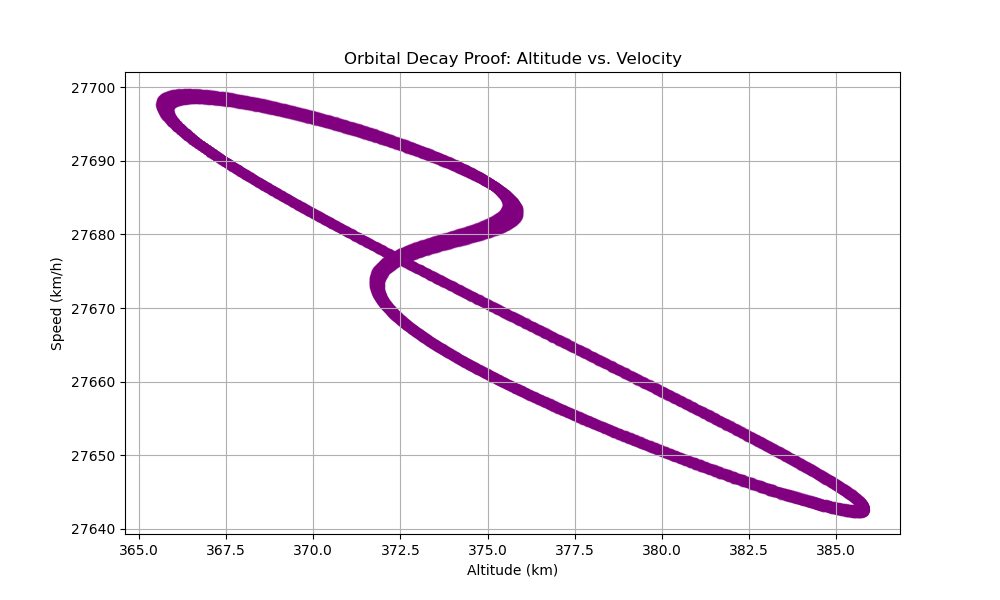
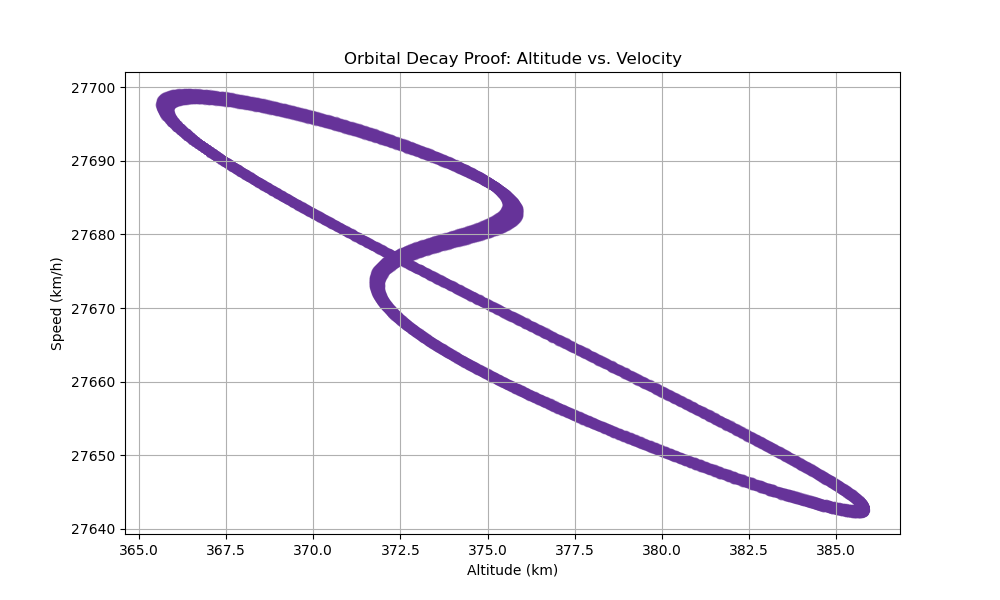
More tweaks

diff --git a/scripts/telemetry_utils.py b/scripts/telemetry_utils.py
@@ -1,58 +1,65 @@
 import pandas as pd
 import matplotlib.pyplot as plt
-import os
 
-def count_regional_flyovers(csv_filepath, save_visuals=True):
-    # Load the dataset
+def generate_legacy_maps(csv_filepath):
+    # I want to exactly recreate the legacy visualizations from my original CMSE 201 project
     df = pd.read_csv(csv_filepath)
     
-    # Bounding boxes
-    EL_MIN_LAT, EL_MAX_LAT, EL_MIN_LON, EL_MAX_LON = 42.70, 42.76, -84.52, -84.42
-    MI_MIN_LAT, MI_MAX_LAT, MI_MIN_LON, MI_MAX_LON = 41.69, 48.32, -90.41, -82.41
-    CHI_MIN_LAT, CHI_MAX_LAT, CHI_MIN_LON, CHI_MAX_LON = 41.64, 42.02, -87.94, -87.52
-    IL_MIN_LAT, IL_MAX_LAT, IL_MIN_LON, IL_MAX_LON = 36.97, 42.50, -91.51, -87.49
+    # 1. The Orbital Track (Scatter)
+    plt.figure(figsize=(12, 6))
+    plt.scatter(df['longitude'], df['latitude'], alpha=0.5, color='blue', s=2)
+    plt.title('Legacy Visualization: Earth Rotation Orbital Track')
+    plt.xlabel('Longitude')
+    plt.ylabel('Latitude')
+    plt.grid(True)
+    plt.savefig('./assets/legacy_orbital_track.png')
+    plt.close()
     
-    counts = {'East Lansing': 0, 'Michigan': 0, 'Chicago': 0, 'Illinois': 0}
+    # 2. The Density Heatmap (Logarithmic Hexbin)
+    plt.figure(figsize=(12, 6))
+    plt.hexbin(df['longitude'], df['latitude'], gridsize=50, cmap='inferno', bins='log')
+    plt.title('Legacy Visualization: Global Density Heatmap')
+    plt.xlabel('Longitude')
+    plt.ylabel('Latitude')
+    plt.colorbar(label='log10(N)')
+    plt.savefig('./assets/legacy_density_heatmap.png')
+    plt.close()
+
+def analyze_global_bands(csv_filepath, save_visuals=True):
+    df = pd.read_csv(csv_filepath)
     
-    # I want to explicitly check coordinates for regional tracking
+    # Michigan's latitude is roughly between 41.5 N and 48.3 N. 
+    # I am tracking this entire horizontal slice around the globe.
+    MI_LAT_MIN = 41.5
+    MI_LAT_MAX = 48.3
+    
+    # Bangalore, India is roughly at longitude 77.6 E.
+    # I am tracking the vertical longitudinal band from 77.0 to 78.0 from pole to pole.
+    BLR_LON_MIN = 77.0
+    BLR_LON_MAX = 78.0
+    
+    mi_band_count = 0
+    blr_band_count = 0
+    
+    # Expanding this out so I can explicitly check each coordinate
     for index, row in df.iterrows():
         lat = row['latitude']
         lon = row['longitude']
         
-        if (lat >= EL_MIN_LAT and lat <= EL_MAX_LAT):
-            if (lon >= EL_MIN_LON and lon <= EL_MAX_LON):
-                counts['East Lansing'] = counts['East Lansing'] + 1
+        # Check Michigan's horizontal band
+        if (lat >= MI_LAT_MIN and lat <= MI_LAT_MAX):
+            mi_band_count = mi_band_count + 1
+            
+        # Check Bangalore's vertical band
+        if (lon >= BLR_LON_MIN and lon <= BLR_LON_MAX):
+            blr_band_count = blr_band_count + 1
                 
-        if (lat >= MI_MIN_LAT and lat <= MI_MAX_LAT):
-            if (lon >= MI_MIN_LON and lon <= MI_MAX_LON):
-                counts['Michigan'] = counts['Michigan'] + 1
-                
-        if (lat >= CHI_MIN_LAT and lat <= CHI_MAX_LAT):
-            if (lon >= CHI_MIN_LON and lon <= CHI_MAX_LON):
-                counts['Chicago'] = counts['Chicago'] + 1
-                
-        if (lat >= IL_MIN_LAT and lat <= IL_MAX_LAT):
-            if (lon >= IL_MIN_LON and lon <= IL_MAX_LON):
-                counts['Illinois'] = counts['Illinois'] + 1
-
     if (save_visuals == True):
-        # 1. Generate the Bar Chart for Regional Pings
         plt.figure(figsize=(8, 5))
-        plt.bar(counts.keys(), counts.values(), color='darkorange')
-        plt.title('ISS Telemetry Pings Over Target Midwestern Regions')
-        plt.ylabel('Number of Data Points')
-        plt.savefig('./assets/regional_pings_bar.png')
+        plt.bar(['Michigan Lat Band', 'Bangalore Lon Band'], [mi_band_count, blr_band_count], color=['forestgreen', 'darkorange'])
+        plt.title('Macro-Regional Telemetry Density')
+        plt.ylabel('Total Pings Recorded')
+        plt.savefig('./assets/macro_regional_bands.png')
         plt.close()
         
-        # 2. Recreate the Legacy CMSE 201 Heatmap to honor the original project
-        # Plotting longitude on X and latitude on Y creates a rough global map
-        plt.figure(figsize=(12, 6))
-        plt.scatter(df['longitude'], df['latitude'], alpha=0.1, color='red', s=1)
-        plt.title('Legacy Visualization: Global ISS Flight Path Heatmap')
-        plt.xlabel('Longitude')
-        plt.ylabel('Latitude')
-        plt.grid(True)
-        plt.savefig('./assets/legacy_global_heatmap.png')
-        plt.close()
-        
-    return counts
+    return {'Michigan_Band': mi_band_count, 'Bangalore_Band': blr_band_count}

diff --git a/scripts/geopolitics.py b/scripts/geopolitics.py
@@ -1,37 +1,22 @@
 import pandas as pd
 import matplotlib.pyplot as plt
 
-def analyze_sovereign_airspace(csv_filepath, save_visuals=True):
+def analyze_granular_geopolitics(csv_filepath, save_visuals=True):
+    # I want to find the top 10 specific bodies of water and landmasses the ISS surveys.
     df = pd.read_csv(csv_filepath)
     
-    ocean_count = 0
-    land_count = 0
-    
-    for index, row in df.iterrows():
-        region_name = str(row['region'])
-        if ("Ocean" in region_name or "Sea" in region_name):
-            ocean_count = ocean_count + 1
-        else:
-            land_count = land_count + 1
-            
-    total_points = len(df)
-    ocean_percent = (ocean_count / total_points) * 100.0
-    land_percent = (land_count / total_points) * 100.0
+    # Tally up the exact string names from the region column
+    top_regions = df['region'].value_counts().head(10)
     
     if (save_visuals == True):
-        # Using a pie chart to visualize the global footprint split
-        labels = ['International Waters', 'Sovereign Land']
-        sizes = [ocean_percent, land_percent]
-        colors = ['#1f77b4', '#2ca02c']
-        
-        plt.figure(figsize=(8, 6))
-        plt.pie(sizes, labels=labels, colors=colors, autopct='%1.1f%%', startangle=140)
-        plt.title('ISS Geopolitical Footprint: Oceans vs. Land')
-        plt.savefig('./assets/geopolitics_breakdown.png')
+        plt.figure(figsize=(10, 6))
+        # Sorting values so the highest is at the top of the horizontal bar chart
+        top_regions.sort_values().plot(kind='barh', color='crimson')
+        plt.title('Top 10 Most Surveyed Geopolitical Regions & Oceans')
+        plt.xlabel('Total Telemetry Pings')
+        plt.ylabel('Region Name')
+        plt.tight_layout()
+        plt.savefig('./assets/granular_geopolitics_bar.png')
         plt.close()
-    
-    results = {
-        'Ocean_Percentage': ocean_percent,
-        'Land_Percentage': land_percent
-    }
-    return results
+        
+    return top_regions.to_dict()

diff --git a/scripts/signal_diagnostics.py b/scripts/signal_diagnostics.py
@@ -1,0 +1,30 @@
+import pandas as pd
+import matplotlib.pyplot as plt
+
+def analyze_telemetry_dropouts(csv_filepath, save_visuals=True):
+    # I want to map the line-of-sight blind spots by calculating the time delta between pings.
+    df = pd.read_csv(csv_filepath)
+    
+    df['timestamp'] = pd.to_datetime(df['timestamp'])
+    df = df.sort_values(by='timestamp')
+    
+    # Using pandas built-in diff() function to calculate the time gap between consecutive rows
+    df['time_delta_seconds'] = df['timestamp'].diff().dt.total_seconds()
+    df = df.dropna(subset=['time_delta_seconds'])
+    
+    max_gap = df['time_delta_seconds'].max()
+    average_gap = df['time_delta_seconds'].mean()
+    
+    if (save_visuals == True):
+        plt.figure(figsize=(12, 4))
+        plt.plot(df['timestamp'], df['time_delta_seconds'], color='teal', linewidth=1)
+        plt.title('Telemetry Feed Health: Ping Intervals Over Time')
+        plt.xlabel('Timeline')
+        plt.ylabel('Seconds Between Pings')
+        plt.axhline(y=average_gap, color='r', linestyle='--', label='Average Ping Interval')
+        plt.legend()
+        plt.tight_layout()
+        plt.savefig('./assets/telemetry_dropout_analysis.png')
+        plt.close()
+        
+    return {'Max_Dropout_Seconds': max_gap, 'Average_Ping_Seconds': average_gap}

diff --git a/scripts/astrodynamics.py b/scripts/astrodynamics.py
@@ -2,6 +2,7 @@ import pandas as pd
 import matplotlib.pyplot as plt
 
 def calculate_terminator_cycle(csv_filepath, save_visuals=True):
+    # Approximating local time using longitude offsets to map daylight vs eclipse.
     df = pd.read_csv(csv_filepath)
     df['timestamp'] = pd.to_datetime(df['timestamp'])
     
@@ -23,7 +24,6 @@ def calculate_terminator_cycle(csv_filepath, save_visuals=True):
             night_count = night_count + 1
             
     if (save_visuals == True):
-        # Bar chart to show the exact ping distribution across the terminator line
         labels = ['Daylight (Approx)', 'Eclipse / Night (Approx)']
         counts = [day_count, night_count]
         
@@ -34,8 +34,4 @@ def calculate_terminator_cycle(csv_filepath, save_visuals=True):
         plt.savefig('./assets/astrodynamics_terminator.png')
         plt.close()
             
-    results = {
-        'Day_Pings': day_count,
-        'Night_Pings': night_count
-    }
-    return results
+    return {'Day_Pings': day_count, 'Night_Pings': night_count}

diff --git a/scripts/orbital_physics.py b/scripts/orbital_physics.py
@@ -2,6 +2,7 @@ import pandas as pd
 import matplotlib.pyplot as plt
 
 def calculate_physics_correlation(csv_filepath, save_visuals=True):
+    # Atmospheric drag constantly pulls the ISS down. I want to correlate altitude and speed.
     df = pd.read_csv(csv_filepath)
     
     df['altitude_km'] = pd.to_numeric(df['altitude_km'], errors='coerce')
@@ -11,9 +12,8 @@ def calculate_physics_correlation(csv_filepath, save_visuals=True):
     correlation = clean_df['altitude_km'].corr(clean_df['speed_kmph'])
     
     if (save_visuals == True):
-        # A scatter plot is the best way to prove the negative correlation
         plt.figure(figsize=(10, 6))
-        plt.scatter(clean_df['altitude_km'], clean_df['speed_kmph'], alpha=0.4, color='purple')
+        plt.scatter(clean_df['altitude_km'], clean_df['speed_kmph'], alpha=0.4, color='rebeccapurple')
         plt.title('Orbital Decay Proof: Altitude vs. Velocity')
         plt.xlabel('Altitude (km)')
         plt.ylabel('Speed (km/h)')